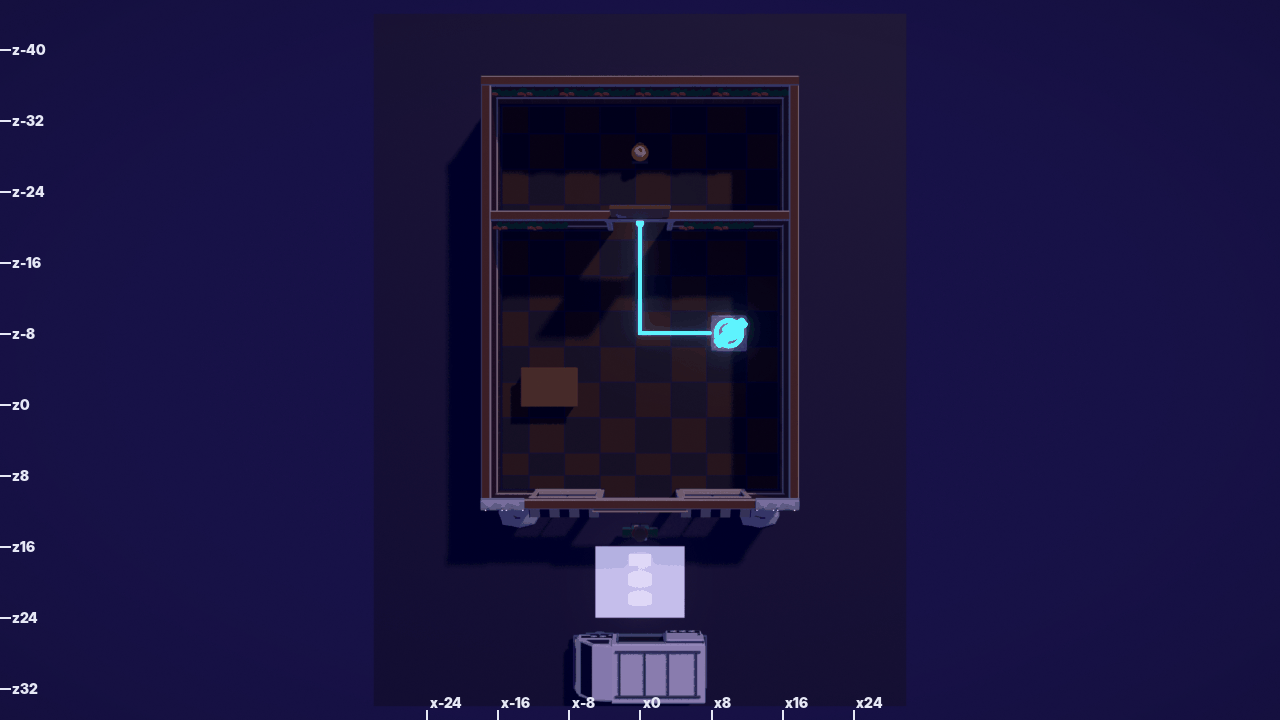
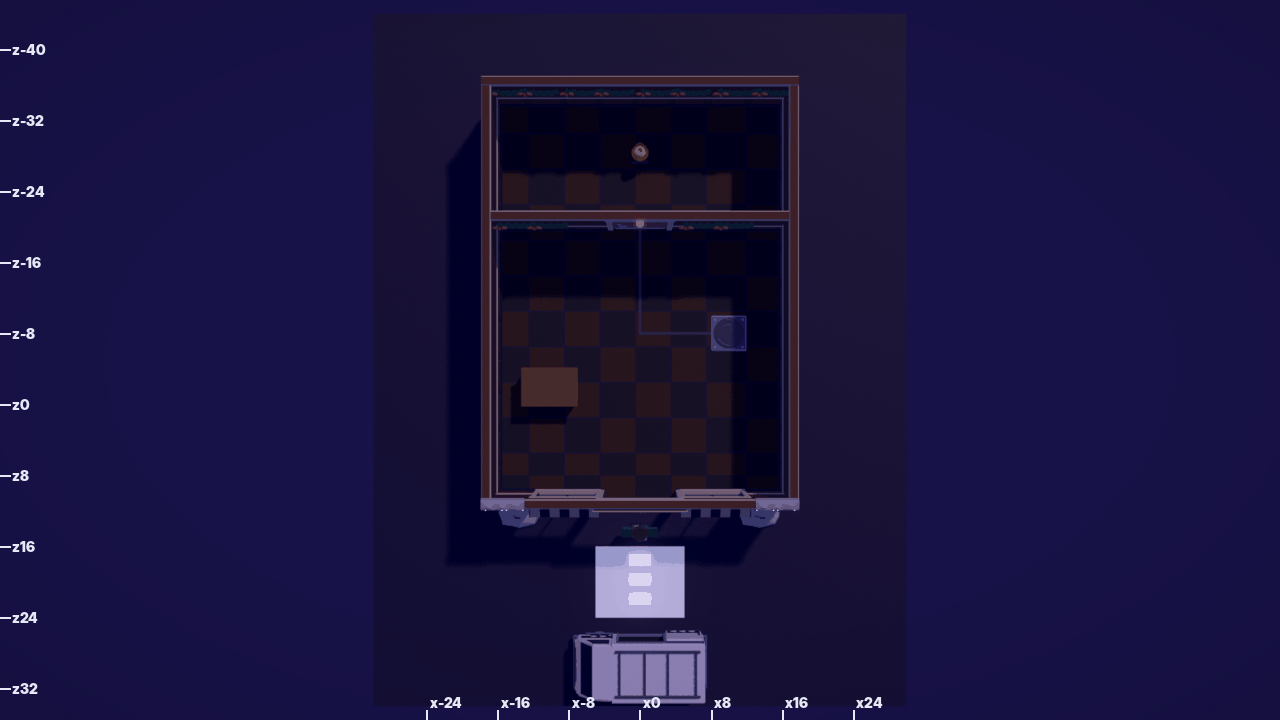
WIP: level-shot renders (agent still running)
Claude-Session: https://claude.ai/code/session_01QMSuPfsKra1qjqHBWxnEoR

Changed region(s): [[0.4375, 0.275, 0.5938, 0.4889], [0.4688, 0.7333, 0.5312, 0.7944]]

diff --git a/tools/blender/level_shots.py b/tools/blender/level_shots.py
@@ -30,7 +30,8 @@ What is NOT reproduced: Roblox's exact moon direction, ambient occlusion and ton
 solidify shell; the HUD. The Roblox default camera (no zoom is set in src/client: 12.5 studs, FOV 70) with Poppercam
 approximated by a ray test against the greybox colliders. These are audit renders, not captures.
 
-Writes docs/audit/levels/<L>_<id>_{1_spawn,1b_spawn_clones,2_objective,3_plan,4_thumb}.png and contact_sheet.png.
+Writes docs/audit/levels/<L>_<id>_{1_spawn,1b_spawn_clones,2_objective,3_plan,3b_plan_solved,4_thumb}.png (1 and 3:
+run 1, nothing held; 1b, 2 and 3b: the solution's clones on their spots, their plates held) and contact_sheet.png.
 """
 import argparse, json, math, os, subprocess, sys, tempfile
 HERE = os.path.dirname(os.path.abspath(__file__))
@@ -219,11 +220,11 @@ def build(level, solved, lib):
             n = piece["name"]
             if n == "Plate_4x4_Ring":
                 if idx in held:
-                    tint(o, CYAN, emit=4.0)
+                    tint(o, CYAN, emit=2.5)
                 else:
                     tint(o, PAL["steelLo"], 0, 0.6)      # idle: SmoothPlastic, Vault Steel shade
             elif n == "LaserEmitter_Lens":
-                tint(o, PAL["alarm"] if lasers.get(idx) else PAL["steelLo"], emit=4.0 if lasers.get(idx) else 0)
+                tint(o, PAL["alarm"] if lasers.get(idx) else PAL["steelLo"], emit=2.2 if lasers.get(idx) else 0)
             elif n == "Switch_Wall_Lamp":
                 tint(o, PAL["steelLo"])
             elif n == "VaultDoor_DialRing":
@@ -239,12 +240,12 @@ def build(level, solved, lib):
             alongX = abs(bx - ax) > abs(bz - az)
             w = (L + 0.3, 0.3) if alongX else (0.3, L + 0.3)
             gbox("Cable", [cx - w[0] / 2, fy + 0.0, cz - w[1] / 2, cx + w[0] / 2, fy + 0.06, cz + w[1] / 2],
-                 CYAN if on else PAL["steelLo"], emit=4.0 if on else 0.0, shadow=False)
+                 CYAN if on else PAL["steelLo"], emit=2.5 if on else 0.0, shadow=False)
     # door lamps (LevelBuilder: above the leaf, on its +Z face)
     for i, d in enumerate(level["doors"], 1):
         bx = d["box"]
         cx = (bx[0] + bx[3]) / 2
-        o = MR.ball("Lamp", 0.4, MR.mat(PAL["ok"] if doors[i] else PAL["alarm"], 0.4, emit=5.0), None,
+        o = MR.ball("Lamp", 0.4, MR.mat(PAL["ok"] if doors[i] else PAL["alarm"], 0.4, emit=1.6), None,
                     tuple(rb(cx, bx[4] + 0.8, bx[5] + 0.2)))
         o.visible_shadow = False
         vault = any(k["role"] == "vaultSkin" and k.get("index") == i for k in level["kit"])
@@ -260,7 +261,7 @@ def build(level, solved, lib):
         rows = max(2, int(h // 2))
         for r in range(rows):
             y = bx[1] + (r + 0.5) * h / rows
-            for t, col, em in ((0.25, PAL["alarm"], 5.0), (0.08, PAL["white"], 8.0)):
+            for t, col, em in ((0.25, PAL["alarm"], 2.2), (0.08, PAL["white"], 4.0)):
                 gbox("Beam", [bx[0], y - t / 2, cz - t / 2, bx[3], y + t / 2, cz + t / 2], col, emit=em, shadow=False)
     # loot stands (dark display; the till's stand is removed)
     for i, it in enumerate(level["loot"], 1):
@@ -270,11 +271,11 @@ def build(level, solved, lib):
         gbox("Stand", [it["x"] - 0.9, fy, it["z"] - 0.9, it["x"] + 0.9, fy + hgt, it["z"] + 0.9], PAL["ink"])
     # van zone + WedgePart chevrons (Getaway White Neon)
     v = level["van"]
-    gbox("VanZone", [v[0], fy, v[2], v[3], fy + 0.1, v[5]], PAL["exit"], emit=0.6, alpha=0.4, shadow=False)
+    gbox("VanZone", [v[0], fy, v[2], v[3], fy + 0.1, v[5]], PAL["exit"], emit=0.45, alpha=0.4, shadow=False)
     vx = (v[0] + v[3]) / 2
     for k in range(3):
         z = v[2] + 1.5 + k * 2.2
-        gbox("Chevron", [vx - 1.2, fy + 0.08, z - 0.6, vx + 1.2, fy + 0.16, z + 0.6], PAL["exit"], emit=2.0,
+        gbox("Chevron", [vx - 1.2, fy + 0.08, z - 0.6, vx + 1.2, fy + 0.16, z + 0.6], PAL["exit"], emit=1.2,
              shadow=False)
     return held, doors, lasers
 
@@ -552,23 +553,26 @@ def shoot(level, W, Hh, samples):
             yaw = math.atan2(-(g["x"] - ex), -(g["z"] - ez))
             pos, tgt, used = tp_camera(level, doors, ex, ez, yaw, zoom=DEFAULT_ZOOM, pitch=20.0)
             shots.append(("2_objective", pos, tgt, FOV, used, (ex, ez, yaw)))
-            # 3: top-down plan (B3: FOV 30)
+            pos, tgt = plan_camera(level)
+            shots.append(("3b_plan_solved", pos, tgt, 30.0, None, (sp["x"], sp["z"], sp["yaw"])))
+        else:
+            # 3: top-down plan (B3: FOV 30), run 1 (nothing held, lasers on); 3b: with the solution's clones
             pos, tgt = plan_camera(level)
             shots.append(("3_plan", pos, tgt, 30.0, None, (sp["x"], sp["z"], sp["yaw"])))
         for name, pos, tgt, fov, used, stand in shots:
             move(me, level, *stand)
             cam.location = pos
-            if name == "3_plan":
+            if name.startswith("3"):
                 cam.rotation_euler = (0, 0, math.pi)
             else:
                 cam.rotation_euler = (tgt - pos).to_track_quat("-Z", "Y").to_euler()
             cd.angle_y = math.radians(fov)
             raw = os.path.join(TMP, f"{stem}_{name}_raw.png")
             render(s, cam, raw)
-            notes = notes_for(s, cam, figs, gl) if name != "3_plan" else []
+            notes = notes_for(s, cam, figs, gl) if not name.startswith("3") else []
             out = os.path.join(OUT, f"{stem}_{name}.png")
-            MR.finish(raw, out, notes, tag=False, vignette=0.12)
-            if name == "3_plan":
+            MR.finish(raw, out, notes, tag=False, vignette=0.12, truecolor=True)   # 256 colours lose the small lamps
+            if name.startswith("3"):
                 plan_ticks(out, s, cam, level)
             made[name] = (out, used)
             print("wrote", out, "" if used is None else f"(camera distance {used:.1f} studs)")
@@ -586,7 +590,7 @@ def shoot(level, W, Hh, samples):
 
 def contact_sheet(levels):
     from PIL import Image, ImageDraw
-    cols = ("1_spawn", "1b_spawn_clones", "2_objective", "3_plan", "4_thumb")
+    cols = ("1_spawn", "1b_spawn_clones", "2_objective", "3_plan", "3b_plan_solved", "4_thumb")
     tw, th = 384, 216
     rows = []
     for lv in levels:
@@ -597,7 +601,7 @@ def contact_sheet(levels):
     d = ImageDraw.Draw(sheet)
     f, _ = MR._font(15)
     d.text((8, 7), "Heist Yourself level audit: spawn (run 1) | spawn with the solution's clones | toward the goal | "
-           "plan | 160x90 thumbnail (x2.4 nearest)", font=f, fill=(230, 232, 245))
+           "plan (run 1) | plan (solved) | 160x90 thumbnail (x2.4 nearest)", font=f, fill=(230, 232, 245))
     for r, (stem, name) in enumerate(rows):
         y = 30 + r * (th + 24)
         d.text((8, y + 3), f"{stem}  {name}", font=f, fill=(230, 232, 245))
@@ -609,7 +613,7 @@ def contact_sheet(levels):
             im = im.resize((tw, th), Image.NEAREST if col == "4_thumb" else Image.LANCZOS)
             sheet.paste(im, (c * tw, y + 24))
     out = os.path.join(OUT, "contact_sheet.png")
-    sheet.quantize(colors=256, method=Image.Quantize.MEDIANCUT, dither=Image.Dither.FLOYDSTEINBERG).save(out, optimize=True)
+    sheet.save(out, optimize=True)
     print("wrote", out)
 
 
